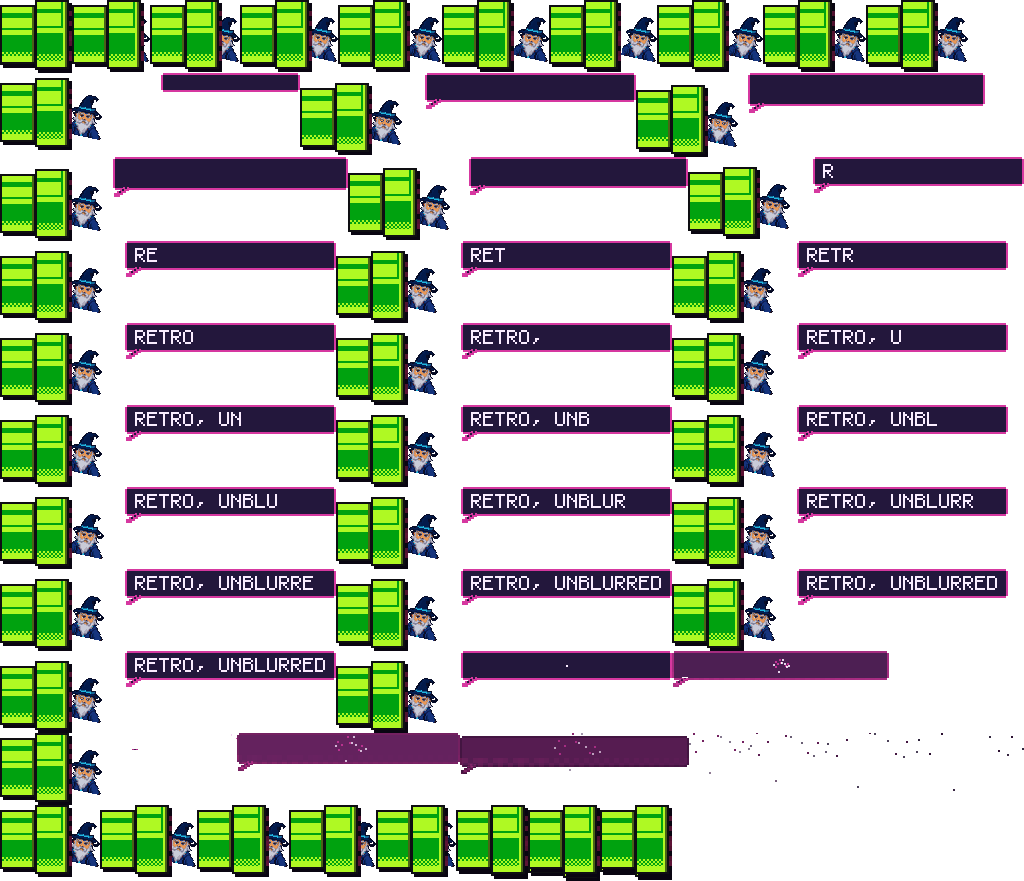
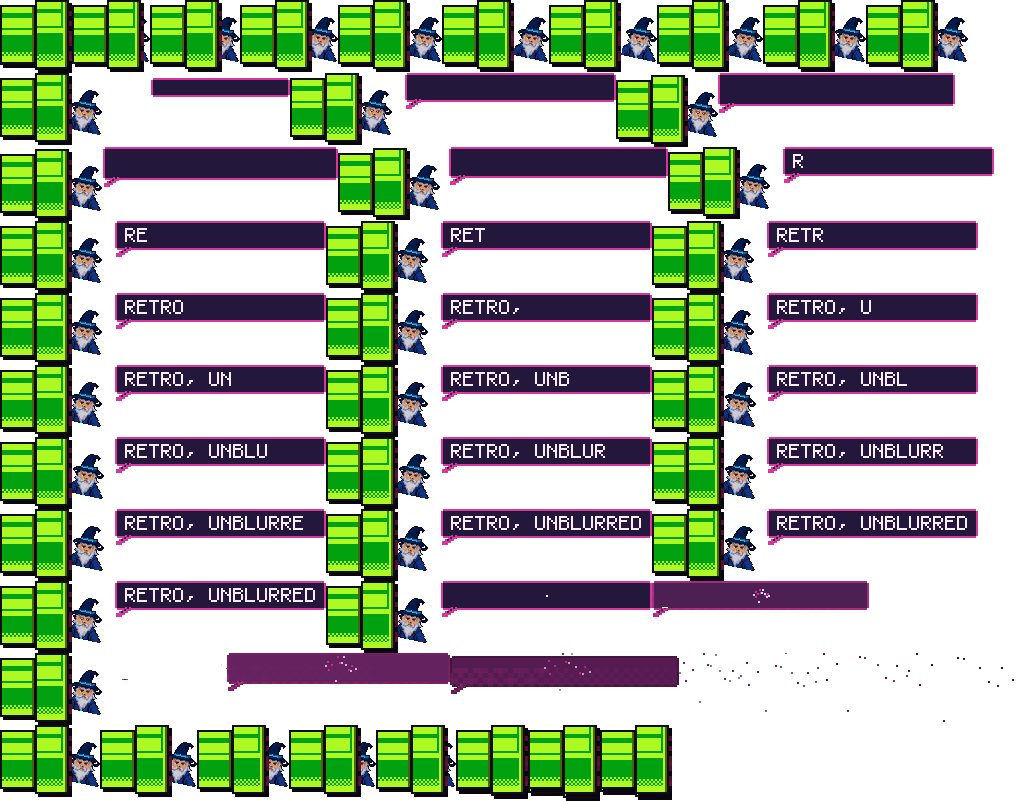
Collapsible left menu; idle peek bubble sits beside his head
- A grey tab on the menu's right edge folds it to a rail of number chips (tooltips with the page
  names) and back; the choice is remembered.
- Idle peeks: the speech bubble moved down and left, next to the wizard's head (clips re-exported).

Claude-Session: https://claude.ai/code/session_01MGmgufkY67hNwJ4dKZUjyJ

diff --git a/app/ui/index.html b/app/ui/index.html
@@ -596,6 +596,21 @@ button.chip { border: 0; font: inherit; font-size: 12px; cursor: pointer; }
 .pv-line { position: absolute; top: 0; bottom: 0; left: var(--x); width: 2px; margin-left: -1px; background: #fff; box-shadow: 0 0 0 1px rgba(0,0,0,.7); pointer-events: none; }
 .pv-line i { position: absolute; top: 50%; left: 50%; transform: translate(-50%, -50%); background: var(--orange); color: var(--ink); font: 800 10px/1 system-ui, sans-serif; font-style: normal; padding: 5px 6px; white-space: nowrap; box-shadow: 2px 2px 0 #000; }
 .pv-view.z1 .pv-cmp { margin: 0 auto; }
+
+/* Collapsible left pane: the grey tab on its right edge folds it to a rail of number chips */
+main { --navw: 272px; grid-template-columns: var(--navw) minmax(0, 1fr); transition: grid-template-columns .18s steps(4); }
+.nav-fold { position: absolute; z-index: 5; left: calc(18px + var(--navw) - 11px); top: 50%; transform: translateY(-50%); width: 22px; height: 54px; padding: 0;
+  display: grid; place-items: center; font-size: 10px; color: var(--text); --step: 2px; }
+.nav-fold:active { transform: translateY(calc(-50% + 1px)); }
+nav button .n.c-only { display: none; }
+main.folded { --navw: 64px; }
+main.folded nav { padding: 4px 0; }
+main.folded nav .grp { font-size: 0; height: 2px; margin: 9px 14px 7px; background: #3b2657; }
+main.folded nav .grp:first-child { margin-top: 8px; }
+main.folded nav button { font-size: 0; justify-content: center; padding: 8px 0; gap: 0; position: relative; }
+main.folded nav button .n { font-size: 12px; width: 26px; height: 26px; }
+main.folded nav button .n.c-only { display: grid; }
+main.folded nav button .badge { position: absolute; top: 3px; right: 8px; }
 </style>
 </head>
 <body>
@@ -631,9 +646,10 @@ button.chip { border: 0; font: inherit; font-size: 12px; cursor: pointer; }
       <div class="grp">ROM Tools</div>
       <button data-page="roms"><span class="n">6</span>ROM Tools</button>
       <div class="spacer"></div>
-      <button data-page="settings">Settings<span class="badge" id="tools-badge" hidden title="A helper tool isn’t downloaded yet"></span></button>
-      <button data-page="about">About</button>
+      <button data-page="settings"><span class="n c-only">⚙</span>Settings<span class="badge" id="tools-badge" hidden title="A helper tool isn’t downloaded yet"></span></button>
+      <button data-page="about"><span class="n c-only">i</span>About</button>
     </nav>
+    <button class="btn nav-fold" id="nav-fold" title="Collapse the menu" aria-label="Collapse the menu" aria-expanded="true">◀</button>
     <section class="page" id="page"></section>
   </main>
   <footer>
@@ -884,7 +900,7 @@ function setVal(key, v) {
 
 // Settings added in 0.7: filled in here so older settings files keep working.
 const NEW_DEFAULTS = {
-  splash: true, cleanPhrases: false, aiGpu: 'auto', aiTile: 'auto',
+  splash: true, cleanPhrases: false, navFolded: false, aiGpu: 'auto', aiTile: 'auto',
   sceneAnimations: true, wizFights: true, psychedelic: false, idlePeeks: true, poking: true, soundEffects: false, soundVolume: 60, musicOn: true, musicVolume: 35, musicSource: 'all', wizardWins: 0, wizardBonusAt: 0,
   upscale: { keepCoverage: true },
   convert: { wrapInfo: true, rice: true, onlyNew: false },
@@ -1427,6 +1443,12 @@ function renderJob() {
 // ---------------------------------------------------------------- dialogs
 function modal(html) { $('#dialog').innerHTML = html; $('#modal').hidden = false; }
 function closeModal() { $('#modal').hidden = true; }
+function applyNavFold() {
+  const f = cfg.navFolded === true, b = $('#nav-fold');
+  $('main').classList.toggle('folded', f);
+  b.textContent = f ? '▶' : '◀'; b.title = f ? 'Show the menu' : 'Collapse the menu'; b.setAttribute('aria-label', b.title); b.setAttribute('aria-expanded', String(!f));
+  document.querySelectorAll('nav button[data-page]').forEach((n) => { n.title = f ? [...n.childNodes].filter((x) => x.nodeType === 3).map((x) => x.textContent).join('').trim() : ''; });
+}
 function askPresetName() {
   modal(`<div class="ask-tools"><h3>Save as preset</h3><p>${esc(presetSummary(cfg.upscale))}</p>
     <input class="text" id="pname" maxlength="40" placeholder="Name, like “My Majora look”" spellcheck="false" style="width:100%;margin-top:10px">
@@ -1536,6 +1558,7 @@ document.addEventListener('click', async (e) => {
   if (id === 'check-again') { recheck(); return; }
   if (id === 'mk-shortcuts') { const r = await window.htk.createShortcuts(); toast(r.ok ? 'Desktop shortcut created' : (r.error || 'Could not create the shortcut')); return; }
   if (id === 'open-repo') { window.htk.openRepo(); return; }
+  if (e.target.closest('#nav-fold')) { cfg.navFolded = !cfg.navFolded; applyNavFold(); save(true); setTimeout(() => { if (page === 'upscale') drawPreview(); }, 220); return; }
   if (id === 'music-next') { Music.next(); return; }
   if (id === 'music-add') { const r = await window.htk.musicAdd(); if (r.added) { await Music.reload(); toast(`Added ${r.added} ${r.added === 1 ? 'track' : 'tracks'}`); render(); } return; }
   if (id === 'sounds-rescan') { await Music.reload(); await Wizard.reloadSounds(); render(); toast('Sounds rescanned'); return; }
@@ -2098,6 +2121,7 @@ setTimeout(() => { if (!$('#splash').hidden) hideSplash(); else showApp(); }, 60
   S = await window.htk.state();
   cfg = withDefaults(S.settings);
   $('#ver').textContent = 'v' + S.version;
+  applyNavFold();
   if (!Array.isArray(cfg.upscale.inputs)) cfg.upscale.inputs = cfg.upscale.inputs ? [cfg.upscale.inputs] : [];
   if (cfg.page === 'unpack') { cfg.page = 'pack'; cfg.pack.mode = 'unpack'; }
   if (cfg.page === 'setup') cfg.page = 'welcome';

diff --git a/build/ui-preview/electron-selftest.js b/build/ui-preview/electron-selftest.js
@@ -394,5 +394,12 @@ module.exports = async ({ app, win }) => {
   let egg = ''; for (let i = 0; i < 30 && !/^fight_elf_/.test(egg); i++) { await wait(100); egg = await js("(Wizard._debug().cur || {}).id || ''"); }
   check(/^fight_elf_/.test(egg), `hidden: 5 clicks on the pipe start the machine elf fight (${egg})`);
   await wait(4000); await shot('egg-elf');
-    app.exit(report.some((l) => l.startsWith('FAIL')) ? 1 : 0);
+    // The left pane folds to a rail of number chips (and back), and remembers it.
+  await js("document.querySelector('#nav-fold').click()"); await wait(400);
+  const fold = await js("({ w: Math.round(document.querySelector('nav').getBoundingClientRect().width), f: cfg.navFolded, tip: document.querySelector('nav button[data-page=\"upscale\"]').title })");
+  check(fold.f === true && fold.w <= 70 && fold.tip === 'Upscale Textures', `menu folds to a rail (${JSON.stringify(fold)})`);
+  await shot('nav-folded');
+  await js("document.querySelector('#nav-fold').click()"); await wait(400);
+  check(await js("cfg.navFolded === false && document.querySelector('nav').getBoundingClientRect().width > 250"), 'menu opens again');
+  app.exit(report.some((l) => l.startsWith('FAIL')) ? 1 : 0);
 };

diff --git a/build/wizard/clips.py b/build/wizard/clips.py
@@ -81,7 +81,7 @@ def bubble(fr, x, y, w, h, scale=1.0, a=255):
 def idle_peek(phrase):
     text = phrase.upper(); s = 4
     tw = len(text) * 6 * s - s; bw = tw + 40; bh = 7 * s + 28
-    BX, BY = MOUTH + 110, SAFE + 8
+    BX, BY = MOUTH + 90, SAFE + 28                                          # beside his head, tail down-left at the hat
     HW = s11.HEAD.width; CY = MOUTH_Y + 8
     T_OUT, T_BUB = 6, 24
     T_TXT = T_BUB + 6; T_HOLD = T_TXT + 2 * len(text); T_POP = T_HOLD + 90; T_DUCK = T_POP + 6; N = T_DUCK + 20
